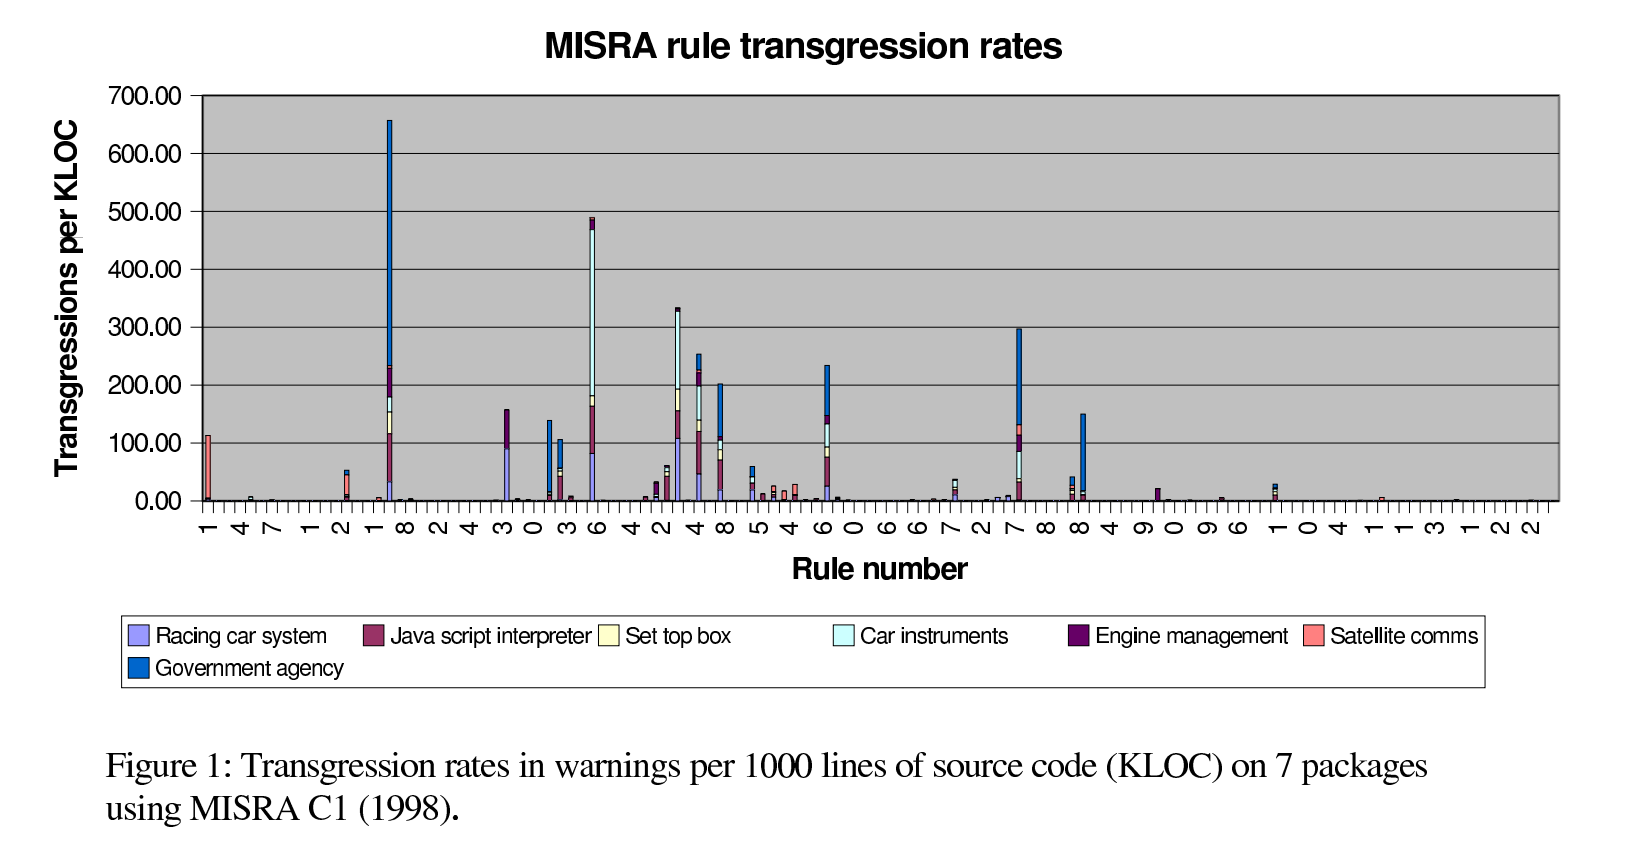
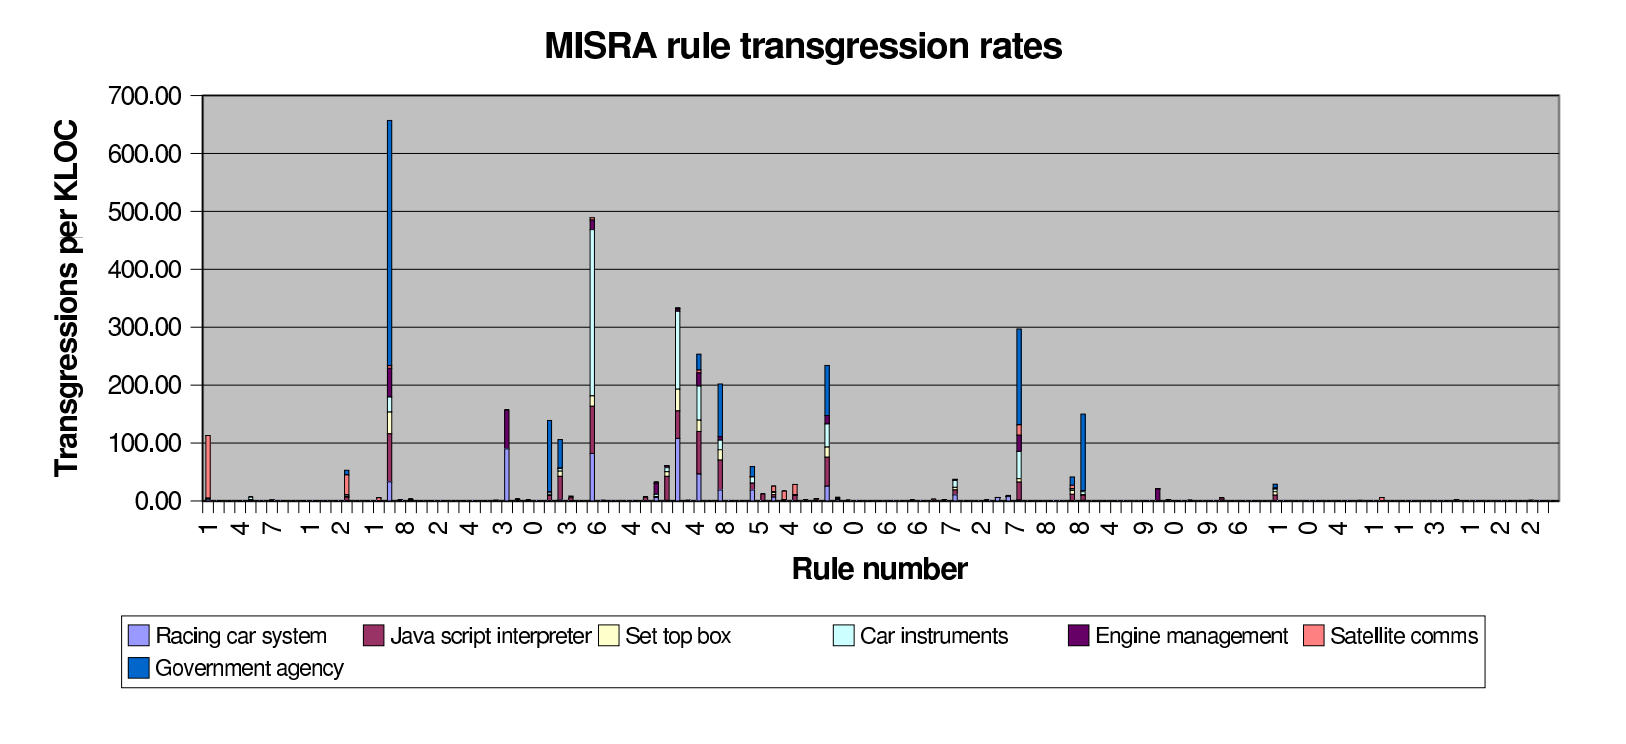
Update transgression rates pictures

Changed region(s): [[0.0308, 0.0309, 0.984, 0.8038], [0.0615, 0.8347, 0.9225, 0.9583], [0.3383, 0.2473, 0.369, 0.3091]]

diff --git a/src/pres.tex b/src/pres.tex
@@ -201,9 +201,11 @@
             \begin{overprint}
                 \only<1> {
                 \includegraphics[width=\textwidth,height=0.8\textheight,keepaspectratio]{graphics/1998-transgression-rates.png}
+                Transgression rates in warnings per 1000 lines of source code (KLOC) on 7 packages using MISRA C1 (1998).
                 }
                 \only<2> {
                 \includegraphics[width=\textwidth,height=0.8\textheight,keepaspectratio]{graphics/2004-transgression-rates.png}
+                Transgression rates in warnings per 1000 lines of source code (KLOC) on 7 packages using MISRA C2 (2004).
                 }
             \end{overprint}
         \end{center}
